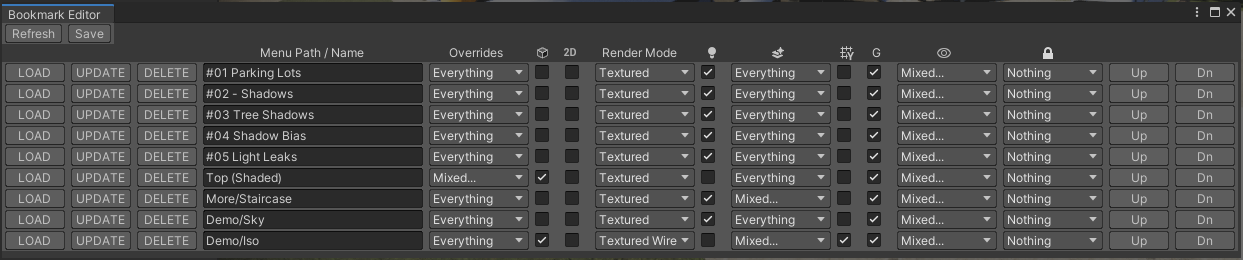
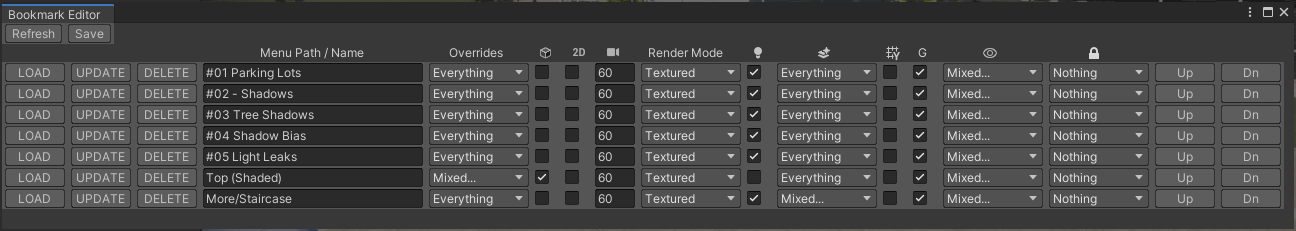
Fixes and new Features

diff --git a/Editor/Bookmarks.cs b/Editor/Bookmarks.cs
@@ -2,19 +2,23 @@
 using UnityEngine;
 using System.IO;
 using UnityEngine.SceneManagement;
+using UnityEngine.UIElements;
 
 #if CINEMACHINE
 using Cinemachine;
+using System;
+using UnityEditor.SceneManagement;
 #endif
 
 #if DISCOVERY_MENU
 using UnityEditor.DiscoveryMenu;
 #endif
 
-// TODO : move built-in views to Editor Settings
 // DONE : make it work on GameView Cameras
-// FIXME : loading a new scene throws errors when Camera is linked.
-// FIXME : camera's overweritten on scene load if Link was left on.
+// FIXED : loading a new scene throws errors when Camera is linked.
+// FIXED : camera's overweritten on scene load if Link was left on.
+
+// TODO : move built-in views to Editor Settings
 // FIXME : if SOLO isn't active and Link is, the same camera is applied changes.
 // FIXME : if link is active and a bookmark is selected, the camera moves to that location. Add a warning ?
 // FIXME : switching from a 2D view to a Camera gives weird results
@@ -32,7 +36,7 @@ namespace UnityEditor.SceneViewBookmarks
         static bool linkMainCamera = default;
         static bool linkFOV = default;
         public static readonly string path = Path.Combine(Application.dataPath, "SceneViewBookmarks.json");
-        static readonly string[] reservedTopMenuItemNames = new string[1] { "Options" };
+        static readonly string[] reservedTopMenuItemNames = new string[5] { "Options", "Filter", "Cameras", "Virtual Cameras", "Bookmark View" };
 
 #if CINEMACHINE
         static bool soloVirtualCamerasOnSelection = default;
@@ -69,12 +73,18 @@ namespace UnityEditor.SceneViewBookmarks
             instance.LoadFromJson(path);
             SceneView.duringSceneGui += SceneView_duringSceneGui;
             EditorApplication.quitting += EditorApplication_quitting;
+            EditorSceneManager.activeSceneChangedInEditMode += EditorSceneManager_activeSceneChangedInEditMode;
 
 #if DISCOVERY_MENU
             HotBoxMenuItem hotBoxMenuItem = new HotBoxMenuItem("Views");
             hotBoxMenuItem.Refresh = () => { hotBoxMenuItem.menu = QuickAccessMenu(SceneView.lastActiveSceneView); };
             SceneViewHotBox.menuItems.Add("Views", hotBoxMenuItem);
 #endif
+        }
+
+        private static void EditorSceneManager_activeSceneChangedInEditMode(Scene arg0, Scene arg1)
+        {
+            linkMainCamera = false;
         }
 
         private static void EditorApplication_quitting()
@@ -84,6 +94,18 @@ namespace UnityEditor.SceneViewBookmarks
 
         private static void SceneView_duringSceneGui(SceneView sceneview)
         {
+            var e = Event.current;
+            if (e.control && e.isScrollWheel)
+            {
+                sceneview.cameraSettings.fieldOfView += e.delta.y;
+                sceneview.orthographic = sceneview.cameraSettings.fieldOfView < 4;
+                e.Use();
+            }
+            else if (e.control && e.type == EventType.MouseDown && e.button == 1)
+            {
+                QuickAccessMenu(sceneview).ShowAsContext();
+            }
+
             if (linkMainCamera)
             {
                 SnapCamera(Camera.main, sceneview, linkFOV);
@@ -107,12 +129,6 @@ namespace UnityEditor.SceneViewBookmarks
                 GUILayout.EndVertical();
                 Handles.EndGUI();
             }
-
-            var e = Event.current;
-            if (e.control && e.type == EventType.MouseDown && e.button == 1)
-            {
-                QuickAccessMenu(sceneview).ShowAsContext();
-            }
         }
 
         public static GenericMenu QuickAccessMenu(SceneView sceneview)
@@ -120,7 +136,7 @@ namespace UnityEditor.SceneViewBookmarks
             GenericMenu menu = new GenericMenu();
 
             if (linkMainCamera)
-			{
+            {
                 menu.AddItem(new GUIContent("Unlock MainCamera from SceneView"), false, () => linkMainCamera = false);
                 menu.AddSeparator("");
             }
@@ -159,10 +175,10 @@ namespace UnityEditor.SceneViewBookmarks
                         sceneview.cameraSettings.fieldOfView = c.m_Lens.FieldOfView;
                     sceneview.AlignViewToObject(c.transform);
                     if (soloVirtualCamerasOnSelection || linkMainCamera)
-					{
+                    {
                         Selection.activeGameObject = c.gameObject;
                         CinemachineBrain.SoloCamera = c;
-					}
+                    }
                 });
             }
 #endif
@@ -186,7 +202,14 @@ namespace UnityEditor.SceneViewBookmarks
             menu.AddItem(new GUIContent("Frame All"), false, () => { sceneview.FrameAll(); });
             menu.AddItem(new GUIContent("Frame Visible Layers"), false, () => { sceneview.FrameLayers(Tools.visibleLayers); });
             menu.AddItem(new GUIContent("Align to Selection"), false, () => AlignToSelection(sceneview));
-            menu.AddItem(new GUIContent("Snap Main Camera"), false, () => SnapCamera(Camera.main, sceneview));
+            menu.AddItem(new GUIContent("Snap Main Camera"), false, () => SnapCamera(Camera.main, sceneview, linkFOV, true));
+
+            // TODO : experiment with sceneview.rootVisualElement
+            //menu.AddItem(new GUIContent("Options/Show as UIElements"), false, () =>
+            //{
+            //    sceneview.rootVisualElement.Add(new Button(() => Debug.Log("TEST")) { text = "TEST" });
+            //});
+
             menu.AddItem(new GUIContent("Options/Show as GUI"), showAsSceneViewGUI, () => showAsSceneViewGUI = !showAsSceneViewGUI);
             menu.AddItem(new GUIContent("Options/Lock MainCamera to SceneView"), linkMainCamera, () => linkMainCamera = !linkMainCamera);
             menu.AddItem(new GUIContent("Options/Link FOV"), linkFOV, () => linkFOV = !linkFOV);
@@ -233,7 +256,7 @@ namespace UnityEditor.SceneViewBookmarks
 #endif
         }
 
-        static void SnapCamera (Camera camera, SceneView sceneview, bool linkFOV = false)
+        static void SnapCamera (Camera camera, SceneView sceneview, bool linkFOV = false, bool undo = false)
         {
 #if CINEMACHINE
             CinemachineBrain brain = camera.GetComponent<CinemachineBrain>();
@@ -245,19 +268,36 @@ namespace UnityEditor.SceneViewBookmarks
                 var vcam = (CinemachineVirtualCamera)brain.ActiveVirtualCamera;
                 if (vcam.GetCinemachineComponent(CinemachineCore.Stage.Body) == null && vcam.GetCinemachineComponent(CinemachineCore.Stage.Aim) == null)
                 {
+                    if (undo)
+                        Undo.RegisterCompleteObjectUndo(vcam.gameObject, "Snap Cinemachine Virtual Camera");
+
                     vcam.transform.rotation = sceneview.rotation;
                     vcam.transform.position = sceneview.pivot - sceneview.camera.transform.forward * sceneview.cameraDistance;
                     if (linkFOV)
                         vcam.m_Lens.FieldOfView = sceneview.camera.fieldOfView;
+
+                    if (!undo)
+                    {
+                        EditorUtility.SetDirty(vcam.transform);
+                        EditorUtility.SetDirty(vcam);
+                    }
                 }
                 return;
             }
 #endif
+            if (undo)
+                Undo.RegisterCompleteObjectUndo(camera.gameObject, "Snap Camera");
 
             camera.transform.rotation = sceneview.rotation;
             camera.transform.position = sceneview.pivot - sceneview.camera.transform.forward * sceneview.cameraDistance;
             if (linkFOV)
                 camera.fieldOfView = sceneview.camera.fieldOfView;
+
+            if (!undo)
+            {
+                EditorUtility.SetDirty(camera.transform);
+                EditorUtility.SetDirty(camera);
+            }
         }
 
         static Bookmarks instance;
@@ -318,7 +358,15 @@ namespace UnityEditor.SceneViewBookmarks
                 GUILayout.BeginHorizontal();
                 if (GUILayout.Button("Create"))
                 {
-                    // TODO : filter reserved names
+                    var delimiter = '/';
+                    var menuPath = bookmarkName.Split(delimiter);
+                    if (menuPath.Length > 1)
+                    {
+                        if (Array.Exists<string>(reservedTopMenuItemNames, e => e == menuPath[0]))
+                        {
+                            bookmarkName = "**" + bookmarkName;
+                        }
+                    }
                     Bookmarks.Instance.viewpoints.Add(new Viewpoint(bookmarkName, sceneview));
                     this.Close();
                 }

diff --git a/Editor/BookmarksEditorWindow.cs b/Editor/BookmarksEditorWindow.cs
@@ -30,7 +30,7 @@ namespace UnityEditor.SceneViewBookmarks
             window.rootVisualElement.styleSheets.Add(AssetDatabase.LoadAssetAtPath<StyleSheet>("Packages/com.unity.sceneview.bookmarks/Editor/SceneViewBookmarks.Styles.uss"));
         }
 
-        GUIContent icon_sceneviewLighting, icon_sceneviewFx, icon_ortho, icon_is2d, icon_grid, icon_locked_layers, icon_visible_layers;
+        GUIContent icon_sceneviewLighting, icon_sceneviewFx, icon_ortho, icon_is2d, icon_grid, icon_locked_layers, icon_visible_layers, icon_camera;
         GUIStyle centeredStyle;
 
         private void OnEnable()
@@ -42,6 +42,7 @@ namespace UnityEditor.SceneViewBookmarks
             icon_grid = EditorGUIUtility.IconContent("d_GridAxisY");
             icon_visible_layers = EditorGUIUtility.IconContent("d_VisibilityOn");
             icon_locked_layers = EditorGUIUtility.IconContent("d_AssemblyLock"); // LockIcon-On, LockIcon, d_AssemblyLock, d_InspectorLock, InspectorLock
+            icon_camera = EditorGUIUtility.IconContent("SceneViewCamera");
             RefreshUI();
         }
 
@@ -56,8 +57,9 @@ namespace UnityEditor.SceneViewBookmarks
             GUILayout.Space(200); // three buttons
             GUILayout.Label("Menu Path / Name", centeredStyle, GUILayout.Width(220)); // text field
             GUILayout.Label("Overrides", centeredStyle, GUILayout.Width(100)); // mask field
-            GUILayout.Label(icon_ortho, GUILayout.Width(24)); // ortho
-            GUILayout.Label(icon_is2d, GUILayout.Width(24)); // is 2d
+            GUILayout.Label(icon_ortho, GUILayout.Width(30)); // ortho
+            GUILayout.Label(icon_is2d, GUILayout.Width(30)); // is 2d
+            GUILayout.Label(icon_camera, GUILayout.Width(30)); // is 2d
             GUILayout.Label("Render Mode", centeredStyle, GUILayout.Width(110)); // mask field
             GUILayout.Label(icon_sceneviewLighting, GUILayout.Width(24)); // scene lighting
             GUILayout.Label(icon_sceneviewFx, GUILayout.Width(100)); // mask field
@@ -139,6 +141,12 @@ namespace UnityEditor.SceneViewBookmarks
                 is2dToggle.AddToClassList("svbm-cell-checkbox");
                 is2dToggle.RegisterValueChangedCallback((x) => Bookmarks.Instance[index].settings.is2D = x.newValue);
                 bookmarkElement.Add(is2dToggle);
+
+                FloatField fovField = new FloatField() { tooltip = "Set this bookmark's Camera Field of View." };
+                fovField.value = Bookmarks.Instance[index].settings.fov;
+                fovField.AddToClassList("svbm-cell-float");
+                fovField.RegisterValueChangedCallback((x) => Bookmarks.Instance[index].settings.fov = Mathf.Clamp(x.newValue, 4, 120));
+                bookmarkElement.Add(fovField);
 
                 EnumField cameraModeMask = new EnumField("", Bookmarks.Instance[index].settings.mode.drawMode) { tooltip = "Set this bookmark's Camera Shading Mode." };
                 cameraModeMask.AddToClassList("svbm-cell-mask");
